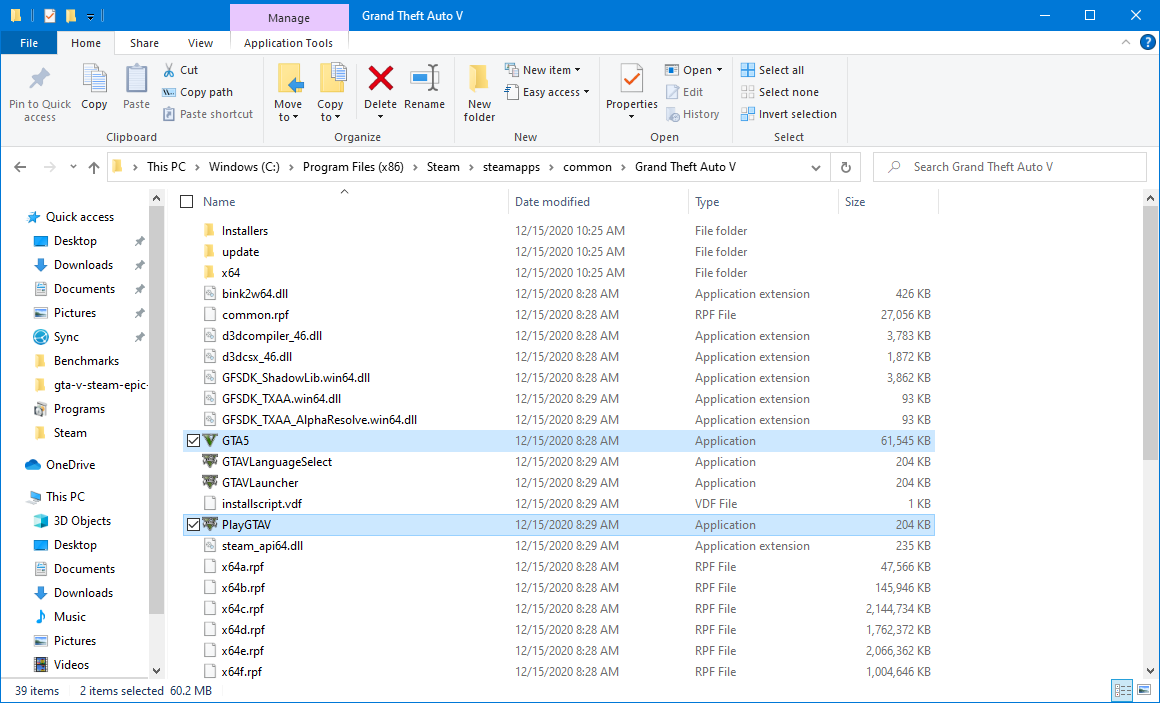
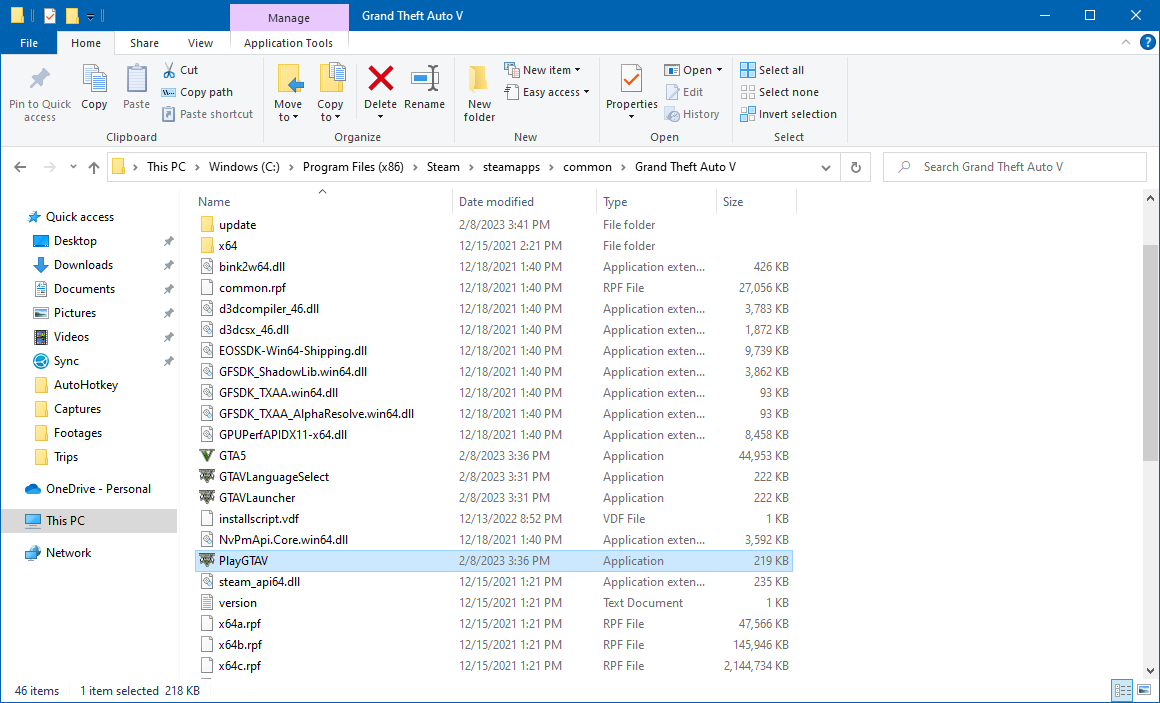
gta-v-steam-epic-games: Update for the latest game version

diff --git a/content/zh/posts/2020-05-15-gta-v-steam-epic-games.md b/content/zh/posts/2020-05-15-gta-v-steam-epic-games.md
@@ -5,7 +5,6 @@ tags:
 categories:
   - 教程
 toc: true
-lastmod: 2020-12-27
 ---
 
 继 Epic Games 宣布 GTA V 将在他们的平台上限免一周后，大量玩家蜂拥而至，其中甚至不乏一些已经在 Steam 上买了 GTA V，想再弄一个甚至好几个小号的人。
@@ -13,6 +12,9 @@ lastmod: 2020-12-27
 然而，很多人在 Steam 和 Epic Games 上同时拥有 GTA V 之后却发现即使已经从 Steam 上下过了游戏，也要从 Epic Games 上重新下载一遍。其实，只要利用一些小技巧，就可以让 Steam 和 Epic Games 共用同一份 GTA V 游戏文件，既省去了重新下载的麻烦，又能节省磁盘空间。我们可以利用 Windows 上一个不知名的 `MKLINK` 命令来建立一个链接：链接给人的感觉类似于快捷方式，能够让被连的文件看起来是放在了链接所在的位置，但其实是被存在了另一个位置。而链接本身占用的空间也是非常小的，所以可以节省大量的磁盘空间。
 
 我相信这次几乎所有玩家都是想把已经在 Steam 上下的文件给 Epic Games 用，而不是反过来，所以下面的步骤是在 Epic Games 游戏安装路径下创建一个连到 Steam 下载的游戏文件的链接的步骤。
+
+{{<format-time 2023-02-08>}}更新：根据在 GTA V 版本 1.66 更新下的测试，在游戏平台间切换时已经不需要再复制 `GTA5.exe` 文件了；现在从 Steam 和 Epic Games 下载的 `GTA5.exe` 文件是完全相同的了。
+{.notice--success}
 
 ## 步骤
 
@@ -46,7 +48,7 @@ lastmod: 2020-12-27
 
     ![]({{< static-path img 06-2-steam-gta-v-files.png >}})
 
-7.  把从 Steam 安装的 GTA V 中的 `GTA5.exe` 和 `PlayGTAV.exe` 复制到别处，并记下它们是从 Steam 的文件复制出来的，比如说把它们都复制到一个叫 `Steam` 的文件夹中。
+7.  把从 Steam 安装的 GTA V 中的 `PlayGTAV.exe` 复制到别处，并记下它是从 Steam 的文件复制出来的，比如说把它复制到一个叫 `Steam` 的文件夹中。
 
     ![]({{< static-path img 07-copy-executables.png >}})
 
@@ -70,11 +72,11 @@ lastmod: 2020-12-27
 
     ![]({{< static-path img 11-epic-games-verifies.png >}})
 
-12. 当 Epic Games 启动器显示可以启动 GTA V 时，前往 GTA V 游戏文件所在路径，再次将 `GTA5.exe` 和 `PlayGTAV.exe` 复制出来，并记下它们是来自于 Epic Games 下载的文件。
+12. 当 Epic Games 启动器显示可以启动 GTA V 时，前往 GTA V 游戏文件所在路径，再次将 `PlayGTAV.exe` 复制出来，并记下它是来自于 Epic Games 下载的文件。
 
     ![]({{< static-path img 12-two-copies-of-executables.png >}})
 
-以后，如果您想从 Steam 启动 GTA V，那么就将第 7 步中从 Steam 的文件复制出来的两个 EXE 文件复制回 GTA V 游戏文件所在路径当中；如果想从 Epic Games 启动，那就复制第 12 步得到的文件。在 GTA V 的关键游戏文件中，只有 `GTA5.exe` 和 `PlayGTAV.exe` 这两个文件从 Steam 下载和从 Epic Games 下载会出现不同，别的文件全部都是一样的。
+以后，如果您想从 Steam 启动 GTA V，那么就将第 7 步中从 Steam 的文件复制出来的两个 EXE 文件复制回 GTA V 游戏文件所在路径当中；如果想从 Epic Games 启动，那就复制第 12 步得到的文件。在 GTA V 的关键游戏文件中，只有 `PlayGTAV.exe` 这一个文件从 Steam 下载和从 Epic Games 下载会出现不同，别的文件全部都是一样的。
 
 ## 提前退出您原有的 Social Club 帐号！
 
@@ -86,10 +88,10 @@ lastmod: 2020-12-27
 
 1.	在游戏平台 A（可以是 Steam，也可以是 Epic Games）上更新 GTA V。
 
-2.	将 GTA V 安装路径中的 `GTA5.exe` 和 `PlayGTAV.exe` 复制到别处，并记下它们是游戏平台 A 下载的文件。
+2.	将 GTA V 安装路径中的 `PlayGTAV.exe` 复制到别处，并记下它是游戏平台 A 下载的文件。
 
 3.	在游戏平台 B（另一个游戏平台）上更新 GTA V。
 
-4.	再次将 GTA V 安装路径中的 `GTA5.exe` 和 `PlayGTAV.exe` 复制到别处，并记下它们是游戏平台 B 下载的文件。
+4.	再次将 GTA V 安装路径中的 `PlayGTAV.exe` 复制到别处，并记下它是游戏平台 B 下载的文件。
 
 之后，您就可以像以前一样正常启动游戏、以及在两个平台之间来回切换。

diff --git a/content/en/posts/2020-05-15-gta-v-steam-epic-games.md b/content/en/posts/2020-05-15-gta-v-steam-epic-games.md
@@ -5,7 +5,6 @@ tags:
 categories:
   - Tutorial
 toc: true
-lastmod: 2020-12-27
 ---
 
 After Epic Games announced that it would give away free copies of GTA V for a
@@ -25,6 +24,12 @@ Because I believe almost all people who want to let the apps of these two game
 platforms share the same game files have already downloaded GTA V from Steam
 rather than Epic Games, the following instructions will create a link to
 Steam's copy of GTA V files under Epic Games' installation path.
+
+{{<format-time 2023-02-08>}} Update: As of GTA V Title Update 1.66, the
+`GTA5.exe` file no longer needs to be copied when switching between game
+platforms; the `GTA5.exe` files downloaded from Steam and Epic Games are now
+identical.
+{.notice--success}
 
 ## Steps
 
@@ -63,10 +68,9 @@ Steam's copy of GTA V files under Epic Games' installation path.
 
     ![]({{< static-path img 06-2-steam-gta-v-files.png >}})
 
-7.  Copy `GTA5.exe` and `PlayGTAV.exe` in Steam's GTA V installation to
-    somewhere else, and clearly label them as game files downloaded from
-    *Steam*.  For example, I would put those files in a folder with name
-    `Steam`.
+7.  Copy `PlayGTAV.exe` in Steam's GTA V installation to somewhere else, and
+    clearly label it as the game file downloaded from *Steam*.  For example, I
+    would put the file in a folder with name `Steam`.
 
     ![]({{< static-path img 07-copy-executables.png >}})
 
@@ -97,8 +101,8 @@ Steam's copy of GTA V files under Epic Games' installation path.
     ![]({{< static-path img 11-epic-games-verifies.png >}})
 
 12. Once GTA V is ready to play from Epic Games, visit the folder storing GTA V
-    game files again, copy `GTA5.exe` and `PlayGTAV.exe` similarly as in step
-    7, but label them as game files downloaded from *Epic Games* this time.
+    game files again, copy `PlayGTAV.exe` similarly as in step 7, but label
+    it as the game file downloaded from *Epic Games* this time.
 
     ![]({{< static-path img 12-two-copies-of-executables.png >}})
 
@@ -106,9 +110,8 @@ In the future, if you want to launch GTA V via Steam, make sure the executables
 you copied in step 7, which are the ones you labeled *Steam*, are in the GTA V
 game files folder. If you want to launch it via Epic Games, then you should put
 the files copied in step 12, labeled *Epic Games* by you, back to the game
-files folder. These two files, `GTA5.exe` and `PlayGTAV.exe`, are the only two
-critical files that differ between the copies of GTA V downloaded from Steam
-and Epic Games.
+files folder. The `PlayGTAV.exe` file is the only critical file that differs
+between the copies of GTA V downloaded from Steam and Epic Games respectively.
 
 ## Sign Out Your Old Social Club Account!
 
@@ -129,16 +132,14 @@ update:
 1.  Update GTA V from one game platform (either Steam or Epic Games). We will
     denote this platform as *Platform A*.
 
-2.  Copy `GTA5.exe` and `PlayGTAV.exe` under the game's installation path to
-    somewhere else, and clearly label them as game files downloaded from
-    *Platform A*.
+2.  Copy `PlayGTAV.exe` under the game's installation path to somewhere else,
+    and clearly label it as the game file downloaded from *Platform A*.
 
 3.  Next, update GTA V from the other platform, which will be denoted as
     *Platform B*.
 
-4.  Again, copy `GTA5.exe` and `PlayGTAV.exe` under the game's installation
-    path to somewhere else, but label them as game files downloaded from
-    *Platform B* this time.
+4.  Again, copy `PlayGTAV.exe` under the game's installation path to somewhere
+    else, but label it as the game file downloaded from *Platform B* this time.
 
 Now, you should be able to launch GTA V and switch between Steam and Epic Games
 back and forth again as before.
